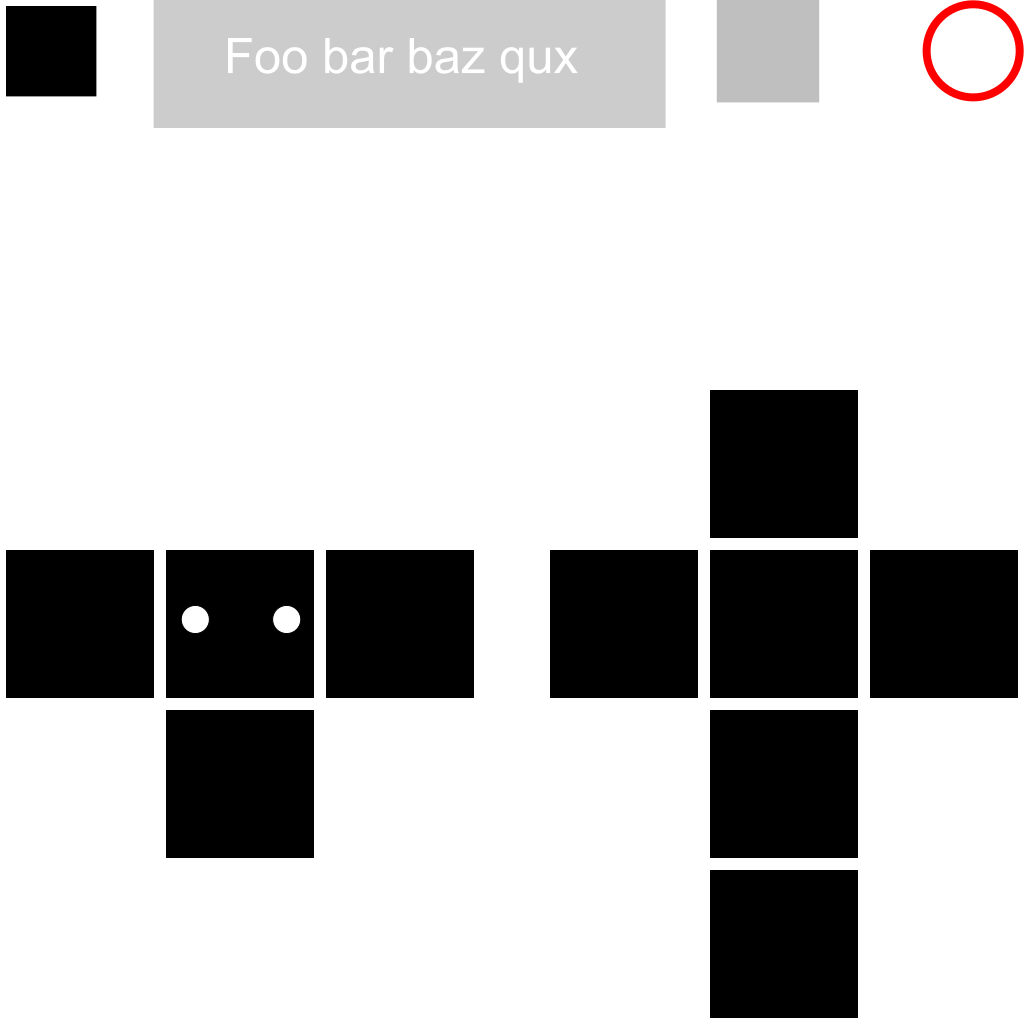
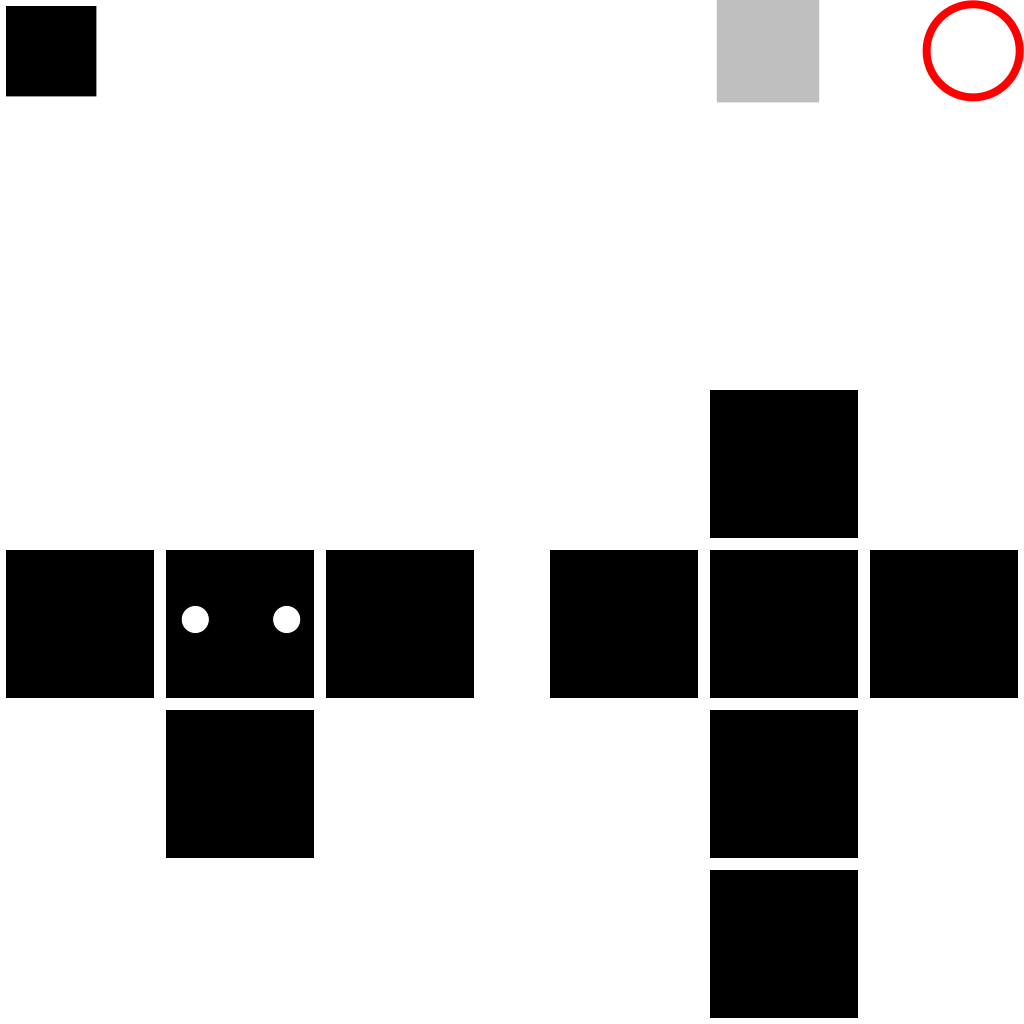
feat: character shader: fix label transparency

Changed region(s): [[0.125, 0.0, 0.6562, 0.125]]

diff --git a/src/npc-cli/service/glsl.js b/src/npc-cli/service/glsl.js
@@ -217,10 +217,10 @@ export const testCharacterShader = {
     vColor = vec3(1.0);
 
     if (vId >= 56 && vId < 60) {// 🚧 WIP
-      vec4 mvPosition = modelViewMatrix * vec4( 0.0, 3.0, 0.0, 1.0 );
+      vec4 mvPosition = modelViewMatrix * vec4( 0.0, 2.5, 0.0, 1.0 );
       vec2 scale = vec2(1.0);
-      // scale.x = length( vec3( modelMatrix[ 0 ].x, modelMatrix[ 0 ].y, modelMatrix[ 0 ].z ) );
-      // scale.y = length( vec3( modelMatrix[ 1 ].x, modelMatrix[ 1 ].y, modelMatrix[ 1 ].z ) );
+      scale.x = length( vec3( modelMatrix[ 0 ].x, modelMatrix[ 0 ].y, modelMatrix[ 0 ].z ) );
+      scale.y = length( vec3( modelMatrix[ 1 ].x, modelMatrix[ 1 ].y, modelMatrix[ 1 ].z ) );
       vec2 alignedPosition = position.xy * scale;
 
       mvPosition.xy += alignedPosition;
@@ -261,6 +261,9 @@ export const testCharacterShader = {
     gl_FragColor = vec4(vColor * vec3(diffuseColor) * (0.1 + 0.7 * dotProduct), diffuseColor.a);
 
     if (vId >= 56 && vId < 60) {// 🚧 WIP
+      if (diffuseColor.a < 0.5) {
+        discard;
+      }
       gl_FragColor = vec4(vColor * vec3(diffuseColor) * 1.0, diffuseColor.a);
     }
   }
